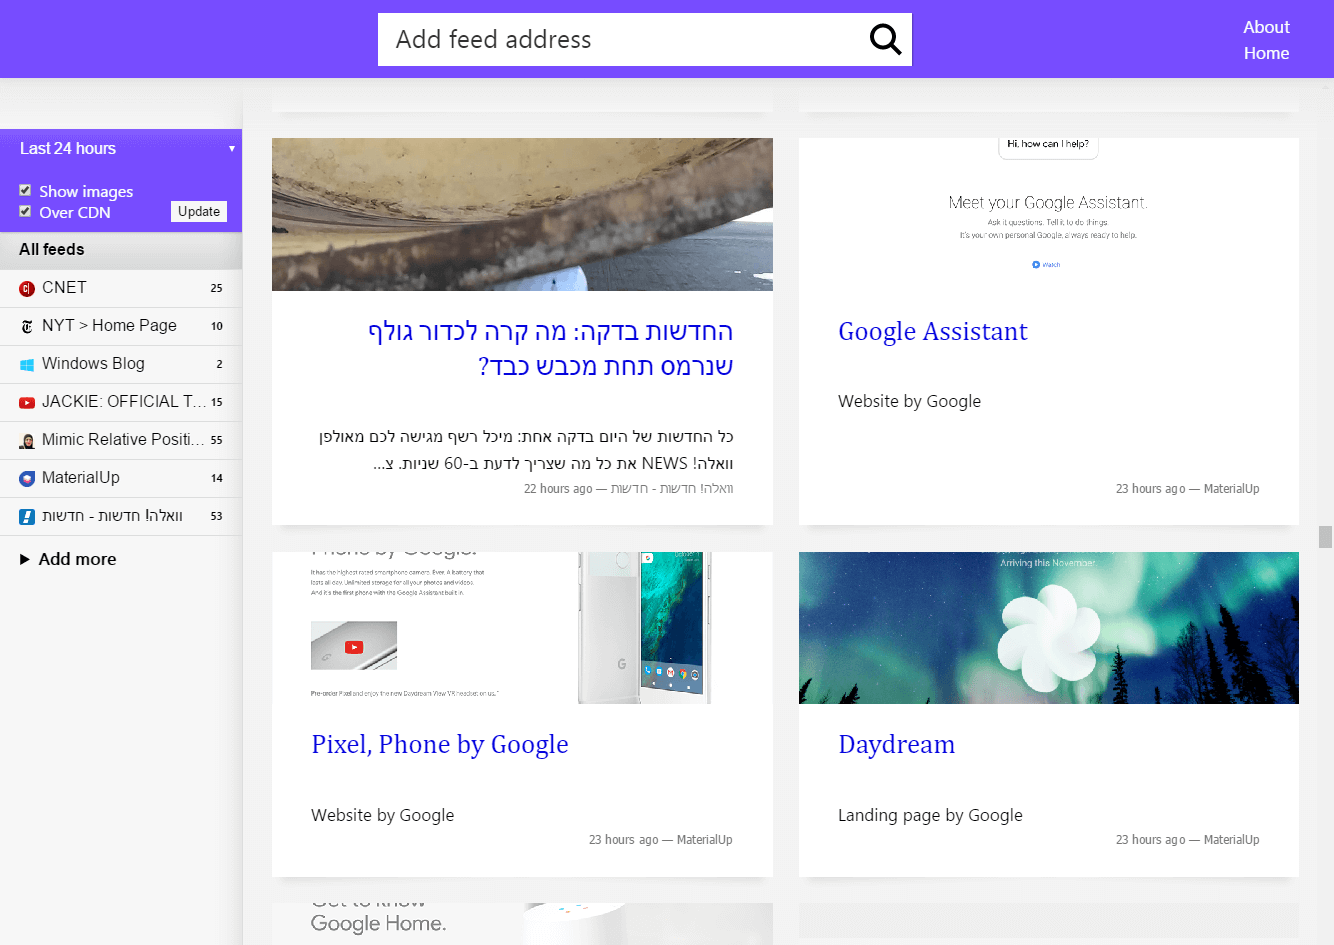
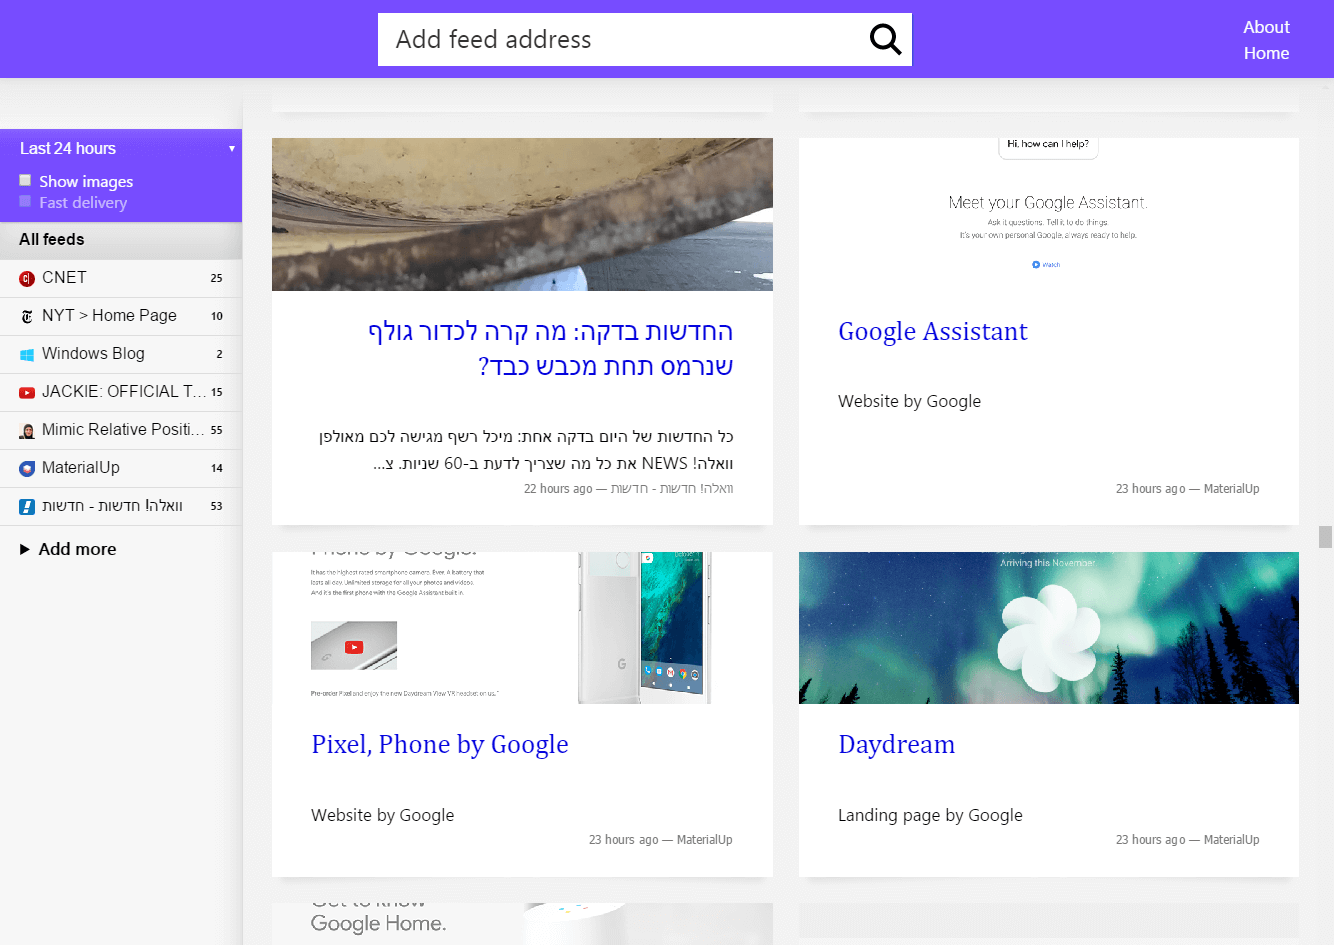
Cloudinary CDN disabled by default

Changed region(s): [[0.0, 0.1841, 0.1844, 0.6138]]

diff --git a/achieve.min.css b/achieve.min.css
@@ -1,1 +1,1 @@
-body,html{height:100%}html{width:100vw;min-width:18em;font:106%/1.34 Segoe UI Historic,Segoe UI Symbol,sans-serif;letter-spacing:.003em;background-color:#f3f3f3;opacity:1;animation:opacity .6s ease-in-out}@keyframes opacity{from{opacity:0;background-color:rgba(238,238,238,0)}40%{opacity:0}60%{background-color:#eee}}body{overflow:hidden;overflow-y:scroll;margin:0}a,img{-webkit-user-drag:none;user-drag:none}a{color:#00d;text-decoration:none}.image,img{-ms-interpolation-mode:nearest-neighbor;image-rendering:-webkit-optimize-contrast;image-rendering:-moz-crisp-edges;image-rendering:crisp-edges;image-rendering:pixelated}:focus{position:relative;outline:#00f auto 2px}p{line-height:1.6}p+p{margin-top:0}header p{margin-bottom:0}ol{list-style:none;padding:0}.container{padding:1.55em 1.26em 0;margin:auto;box-sizing:border-box}.personalized{padding-left:15.26em}.subsc{overflow:auto;position:fixed;left:0;width:100%;max-width:14.26em;border-right:1px solid #ddd;box-shadow:inset -1em 0 3.8em -2em rgba(0,0,0,.37);top:0;bottom:0;padding:3em 0 1.2em;background-color:#f7f7f7}.subsc ol{margin:0}.subsc li+li{border-top:1px solid #ddd}details ol{background-color:rgba(136,136,136,.09)}summary{overflow:hidden;padding:0 1.2em;font-weight:700;line-height:2.6;white-space:nowrap;text-overflow:ellipsis;border-top:1px solid #ddd;cursor:default}.articles article,button,form{-webkit-user-select:none;-moz-user-select:none;-ms-user-select:none;user-select:none}form p{-webkit-user-select:initial;-moz-user-select:initial;-ms-user-select:initial;user-select:initial}[type=submit]{padding:.25em .5em;float:right;background-color:#f7f7f7;border:0}.filter.filter{width:100%;padding:.6em .95em;color:#fff;font-size:94%;float:left;background-color:#774cff;border-color:#774cff;box-shadow:1px 1px .1em rgba(0,0,0,.2);box-sizing:border-box}label:not([hidden]){overflow:hidden;display:block;max-width:100%;float:left;white-space:nowrap;text-overflow:ellipsis}label,select{cursor:pointer}option{overflow:hidden;min-width:100%;max-width:0;color:#333;white-space:nowrap;word-wrap:normal;text-overflow:ellipsis;background-color:#fff}button{overflow:hidden;text-align:left;text-overflow:ellipsis;white-space:nowrap;background-color:transparent;border:0;cursor:pointer}.subsc button{width:100%;height:100%;min-height:2.321em;padding:.6em 1.2em;font-size:94%;text-shadow:1px 1px 0 rgba(255,255,255,.5)}.subsc button.active,.subsc button:focus,.subsc button:hover{background-color:rgba(136,136,136,.14)}.subsc button.active{font-weight:700;box-shadow:inset 0 -1em 1.8em rgba(0,0,0,.065)}[data-count]{padding-right:1em}[data-count]:before{content:attr(data-count);position:relative;float:right;font:700 .67em/1.75 Meiryo,Segoe UI,sans-serif;pointer-events:none}[data-count=0]:before{display:none}.subsc img{margin-right:.4em;vertical-align:middle}.articles{display:flex;flex-wrap:wrap;margin:0 auto 3em}.articles form{display:inline;margin-left:.2em;white-space:normal}header{flex:inherit;width:100%;margin:1em .75em;white-space:nowrap}button{font-size:100%}button[name=remove]{background-color:wheat}header button{color:#02a}header h1,header p{overflow:hidden;margin:0;vertical-align:middle;text-overflow:ellipsis}.intro{font-size:3em}dfn,time{color:#777;font-size:.7em;font-family:tahoma,sans-serif}dfn{font-style:normal}article time{order:4;position:absolute;right:3.3em;bottom:2.5em;max-width:calc(100% - 6.6em);float:right;background-color:#fff;box-shadow:-.3em 0 .5em .5em #fff}article{flex:1;position:relative;min-width:24em;margin:.78em}article a{display:flex;position:relative;flex-direction:column;height:100%;padding:1.3em 2.3em 1.9em;color:inherit;text-decoration:none;background-color:#fff;box-sizing:border-box}article a:after,article a:before{content:"";position:absolute;z-index:-1;bottom:15px;width:50%;height:20%;max-width:300px;max-height:100px;box-shadow:0 15px 10px rgba(51,51,51,.1)}article a:before{left:8px;transform:rotate(-2deg)}article a:after{right:8px;transform:rotate(2deg)}.image{order:1;width:calc(100% + 4.6em);height:9em;margin:-1.3em -2.3em 0;vertical-align:top;background-color:#bbb;background-size:cover;background-position:center;background-repeat:no-repeat}article h2{order:2;color:#00d;font-size:158%;font-weight:400;font-family:Cambria,Georgia,sans-serif}article p{order:3}.note{width:36em;max-width:100%;padding:3% 2em;margin:auto;box-sizing:border-box}.articles .note{width:100%;padding:1em .75em}.note button{color:#00d}.highlight.highlight{padding:.3em .6em;margin:0;color:#fff;background-color:green}.note h1{font-weight:400;font-size:231%;text-align:center;line-height:1.3;text-shadow:1px 1px 0 #fff}.note h1:first-line{font-size:200%}.note button{padding:.2em .4em;margin:0 -.4em}@media (max-width:55em){.personalized{padding-left:10em}.subsc{max-width:9em}}@media (max-width:36em){.note h1{font-size:180%}[type=submit]{float:none}.filter,details{display:none}.subsc .filter+li{border-top:0}.personalized{padding-left:4.3em}.subsc{left:0;max-width:3.2em}.subsc button{padding:1em}.subsc span{display:inherit;letter-spacing:32em}.subsc button[value=""] span,.subsc img+span{display:none}[data-count]:before{margin-top:-1em;margin-right:-.2em}article{flex:inherit;min-width:12em}}
+body,html{height:100%}html{width:100vw;min-width:18em;font:106%/1.34 Segoe UI Historic,Segoe UI Symbol,sans-serif;letter-spacing:.003em;background-color:#f3f3f3;opacity:1;animation:opacity .6s ease-in-out}@keyframes opacity{from{opacity:0;background-color:rgba(238,238,238,0)}40%{opacity:0}60%{background-color:#eee}}body{overflow:hidden;overflow-y:scroll;margin:0}a,img{-webkit-user-drag:none;user-drag:none}a{color:#00d;text-decoration:none}.image,img{-ms-interpolation-mode:nearest-neighbor;image-rendering:-webkit-optimize-contrast;image-rendering:-moz-crisp-edges;image-rendering:crisp-edges;image-rendering:pixelated}:focus{position:relative;outline:#00f auto 2px}p{line-height:1.6}p+p{margin-top:0}header p{margin-bottom:0}ol{list-style:none;padding:0}.container{padding:1.55em 1.26em 0;margin:auto;box-sizing:border-box}.personalized{padding-left:15.26em}.subsc{overflow:auto;position:fixed;left:0;width:100%;max-width:14.26em;border-right:1px solid #ddd;box-shadow:inset -1em 0 3.8em -2em rgba(0,0,0,.37);top:0;bottom:0;padding:3em 0 1.2em;background-color:#f7f7f7}.subsc ol{margin:0}.subsc li+li{border-top:1px solid #ddd}details ol{background-color:rgba(136,136,136,.09)}summary{overflow:hidden;padding:0 1.2em;font-weight:700;line-height:2.6;white-space:nowrap;text-overflow:ellipsis;border-top:1px solid #ddd;cursor:default}.articles article,button,form{-webkit-user-select:none;-moz-user-select:none;-ms-user-select:none;user-select:none}form p{-webkit-user-select:initial;-moz-user-select:initial;-ms-user-select:initial;user-select:initial}[type=submit]{padding:.25em .5em;float:right;background-color:#f7f7f7;border:0}.filter.filter{width:100%;padding:.6em .95em;color:#fff;font-size:94%;float:left;background-color:#774cff;border-color:#774cff;box-shadow:1px 1px .1em rgba(0,0,0,.2);box-sizing:border-box}li.filter.filter{padding-top:0}.disabled{opacity:.6}label{overflow:hidden;display:block;max-width:100%;float:left;white-space:nowrap;text-overflow:ellipsis}label,select{cursor:pointer}option{overflow:hidden;min-width:100%;max-width:0;color:#333;white-space:nowrap;word-wrap:normal;text-overflow:ellipsis;background-color:#fff}button{overflow:hidden;text-align:left;text-overflow:ellipsis;white-space:nowrap;background-color:transparent;border:0;cursor:pointer}.subsc button{width:100%;height:100%;min-height:2.321em;padding:.6em 1.2em;font-size:94%;text-shadow:1px 1px 0 rgba(255,255,255,.5)}.subsc button.active,.subsc button:focus,.subsc button:hover{background-color:rgba(136,136,136,.14)}.subsc button.active{font-weight:700;box-shadow:inset 0 -1em 1.8em rgba(0,0,0,.065)}[data-count]{padding-right:1em}[data-count]:before{content:attr(data-count);position:relative;float:right;font:700 .67em/1.75 Meiryo,Segoe UI,sans-serif;pointer-events:none}[data-count=0]:before{display:none}.subsc img{margin-right:.4em;vertical-align:middle}.articles{display:flex;flex-wrap:wrap;margin:0 auto 3em}.articles form{display:inline;margin-left:.2em;white-space:normal}header{flex:inherit;width:100%;margin:1em .75em;white-space:nowrap}button{font-size:100%}button[name=remove]{background-color:wheat}header button{color:#02a}header h1,header p{overflow:hidden;margin:0;vertical-align:middle;text-overflow:ellipsis}.intro{font-size:3em}dfn,time{color:#777;font-size:.7em;font-family:tahoma,sans-serif}dfn{font-style:normal}article time{order:4;position:absolute;right:3.3em;bottom:2.5em;max-width:calc(100% - 6.6em);float:right;background-color:#fff;box-shadow:-.3em 0 .5em .5em #fff}article{flex:1;position:relative;min-width:24em;margin:.78em}article a{display:flex;position:relative;flex-direction:column;height:100%;padding:1.3em 2.3em 1.9em;color:inherit;text-decoration:none;background-color:#fff;box-sizing:border-box}article a:after,article a:before{content:"";position:absolute;z-index:-1;bottom:15px;width:50%;height:20%;max-width:300px;max-height:100px;box-shadow:0 15px 10px rgba(51,51,51,.1)}article a:before{left:8px;transform:rotate(-2deg)}article a:after{right:8px;transform:rotate(2deg)}.image{order:1;width:calc(100% + 4.6em);height:9em;margin:-1.3em -2.3em 0;vertical-align:top;background-color:#bbb;background-size:cover;background-position:center;background-repeat:no-repeat}article h2{order:2;color:#00d;font-size:158%;font-weight:400;font-family:Cambria,Georgia,sans-serif}article p{order:3}.note{width:36em;max-width:100%;padding:3% 2em;margin:auto;box-sizing:border-box}.articles .note{width:100%;padding:1em .75em}.note button{color:#00d}.highlight.highlight{padding:.3em .6em;margin:0;color:#fff;background-color:green}.note h1{font-weight:400;font-size:231%;text-align:center;line-height:1.3;text-shadow:1px 1px 0 #fff}.note h1:first-line{font-size:200%}.note button{padding:.2em .4em;margin:0 -.4em}@media (max-width:55em){.personalized{padding-left:10em}.subsc{max-width:9em}}@media (max-width:36em){.note h1{font-size:180%}[type=submit]{float:none}.filter,details{display:none}.subsc .filter+li{border-top:0}.personalized{padding-left:4.3em}.subsc{left:0;max-width:3.2em}.subsc button{padding:1em}.subsc span{display:inherit;letter-spacing:32em}.subsc button[value=""] span,.subsc img+span{display:none}[data-count]:before{margin-top:-1em;margin-right:-.2em}article{flex:inherit;min-width:12em}}

diff --git a/achieve.css b/achieve.css
@@ -133,7 +133,13 @@ form p {
     box-shadow: 1px 1px .1em rgba(0,0,0,.2);
     box-sizing: border-box;
 }
-label:not([hidden]) {
+li.filter.filter {
+    padding-top: 0;
+}
+.disabled {
+    opacity: .6;
+}
+label {
     overflow: hidden;
     display: block;
     max-width: 100%;

diff --git a/achieve.php b/achieve.php
@@ -89,15 +89,15 @@ if ($origin === 'about') {
 </ul>
 <h2>Minimum server requirements</h2>
 <p>Apache 2.4 + <var>rewrite_module</var> or IIS <var>web.config</var>, PHP 5.4 + <var>dom</var>, <var>curl</var> and <var>SimpleXML</var>.<br>Directory <var>~cache</var> must be writable, run <code>chmod -R 777 ~cache</code></p>
-<p><var>config.php</var> contains configuration flags. Optimized images delivered trough Cloudinary CDN, if whenever exceeded CDN bandwidth, set <var>$imagePrefix</var> value to <b>null</b> or turn off CDN in UI.
+<p><var>config.php</var> contains configuration flags. Optimized images delivered trough Cloudinary CDN (turn on/off in UI or <var>config.php</var>).
 <h2>Storage</h2>
 <ul>
-    <li>Web assets like CSS are stored in Web Cache Storage
+    <li>CSS assets stored in Web Cache Storage
     <li>Served feeds are stored for 5 minutes in <var>~cache</var>
     <li>The user session is stored in <var>session.save_path</var> till PHP <var>session.gc_maxlifetime</var> expired
 </ul>
 <h2>License</h2>
-<p>Released under the CC BY-NC-ND 4.0 License.</p>';
+<p>Released under the <a href=' . $path . 'LICENSE target=_blank tabindex=0>CC BY-NC-ND 4.0 License</a>.</p>';
     $page['suggestionsForm'] = false;
     $result .= "\n    <div class=note role=article>" . pageHeader() . '</div>';
 } else {
@@ -120,7 +120,9 @@ if ($origin === 'about') {
         foreach ($maxRangeList as $key => $item) $navigation .= "<option value=$key" . ((string) $key === (string) $maxRange ? ' selected' : null) . ">$item";
 
         $navigation .= '</select>
-        <li class=filter><label title="Display article images"><input name=imageShow type=checkbox onclick=this.form.submit()' . ($imageShow ? ' checked' : null) . '> Show images</label><label title="Using Cloudinary CDN (turn off when bandwidth exceeded)"><input name=overCDN type=checkbox onclick=this.form.submit()' . ($imagePrefix ? ' checked' : null) . '> Over CDN</label><input name=url value="' . $url . '" hidden><input type=submit value=Update>
+        <li class=filter><label title="Display article images"><input name=imageShow type=checkbox onclick=this.form.submit()' . ($imageShow ? ' checked' : null) . '> Show images</label><label' .
+            ($imageShow ? ' title="Use Cloudinary CDN for optimized image delivery (turn off when bandwidth exceeded)"' : ' class=disabled title="Requires &quot;Show images&quot; enabled"') .
+            '><input name=overCDN type=checkbox' . ($imageShow ? ' onclick=this.form.submit()' . ($imagePrefix ? ' checked' : null) : ' disabled') . '> Fast delivery</label><input name=url value="' . $url . '" hidden><input id=x type=submit value=Update><script>document.getElementById("x").remove();</script>
         <li><button' . linkParams() .'>All <span>feeds</span></button>';
 
         foreach ($session as $item) {

diff --git a/config.php b/config.php
@@ -11,17 +11,9 @@ if (isset($_POST['maxRange'])) {
 
 $cacheDir = '~cache';
 $imageShow = isset($_SESSION['imageShow']) ? $_SESSION['imageShow'] : true;
-$isLocalhost = preg_match('/^(127.0.0.1|10.0.0.\d{1,9})$/', $_SERVER['REMOTE_ADDR']);
-$overCDN = isset($_SESSION['overCDN']) ? $_SESSION['overCDN'] : $isLocalhost;
 $maxRange = isset($_SESSION['maxRange']) ? $_SESSION['maxRange'] : 3; // Feed time range limit
-
-
-// IMPORTANT: Change $imagePrefix value to null if Cloudinary bandwidth is exceeded (is null on localhost)
-$imagePrefix = $overCDN !== true ? null : '//res.cloudinary.com/laukstein/image/fetch/w_520,h_153,c_fill,g_face,f_auto/';
-// $imagePrefix = null;
-
-
-
+$overCDN = isset($_SESSION['overCDN']) ? $_SESSION['overCDN'] : false; // Use Cloudinary CDN for images
+$imagePrefix = $overCDN === true ? '//res.cloudinary.com/laukstein/image/fetch/w_520,h_153,c_fill,g_face,f_auto/' : null;
 $maxRangeList = [
     1 => 'Last 24 hours',
     3 => 'Last 3 days',

diff --git a/README.md b/README.md
@@ -27,12 +27,12 @@ After added the first feed, it will display also images for article is has, is c
 Apache 2.4 + rewrite_module or IIS web.config, PHP 5.4 + dom, curl and SimpleXML.<br>
 Directory [`~cache`](~cache) must be writable, run `chmod -R 777 ~cache`
 
-[`config.php`](config.php) contains configuration flags. Optimized images delivered trough Cloudinary CDN, if whenever exceeded CDN bandwidth, set `$imagePrefix` value to **null** or turn off CDN in UI.
+[`config.php`](config.php) contains configuration flags. Optimized images delivered trough Cloudinary CDN (turn on/off in UI or `config.php`).
 
 
 ## Storage
 
-* Web assets like CSS are stored in Web Cache Storage
+* CSS assets stored in Web Cache Storage
 * Served feeds are stored for 5 minutes in `~cache`
 * The user session is stored in `session.save_path` till PHP `session.gc_maxlifetime` expired
 
